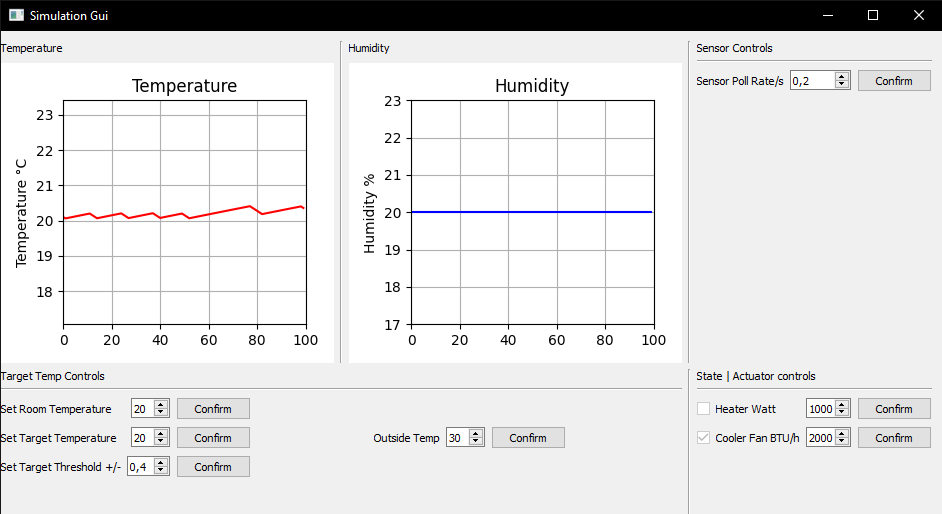
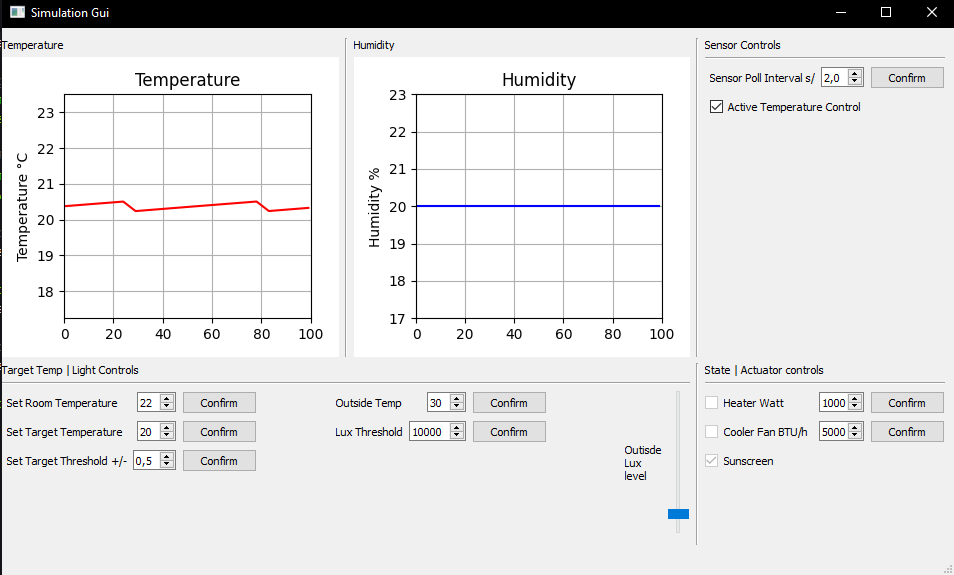
alterations to the Readme. updated gui image, used resources links and test results.

diff --git a/README.md b/README.md
@@ -15,9 +15,13 @@ This project is a simulation of a room temperature control system. The room is s
 - Allows the user to set:
     - Target temperature
     - Target threshold
+    - Lux threshold
+    - Outside Lux
     - Outside temperature
     - Inside temperature
-    - Sensor polling rate
+    - Sensor polling Interval
+    - Active Temperature Control
+    - Heater and cooler strength
 
 Example of the PyQt5 UI:  
 ![UI](Img/ExampleUI.png)
@@ -34,7 +38,7 @@ Example of the PyQt5 UI:
     ```
 
 ### Python Code Requirements
-Install the required Python packages by running the following command:
+Install the required Python packages by running the following command. This also contains the pybind11 module:
 ```bash
 pip install -r requirements.txt
 ```
@@ -59,8 +63,18 @@ Optional command line arguments:
 2. Run one of the `test_*.py` files.
    The rest will be done automatically.
 
-Total number of tests: 40  
-Latest results: `40 passed, 0 skipped, 0 failed in 9.71 seconds`
+Total number of tests: 107  
+Latest results: `107 passed, 0 skipped, 0 failed in 18.77 seconds`
+
+---
+## Links
+
+Used Resources: 
+- PyQT5: https://www.riverbankcomputing.com/static/Docs/PyQt5/  
+- pybind11: https://pybind11.readthedocs.io/en/stable/index.html  
+- ReactiveX: http://reactivex.io/  
+- Pytest: https://docs.pytest.org/en/stable/
+
 
 ---
 
